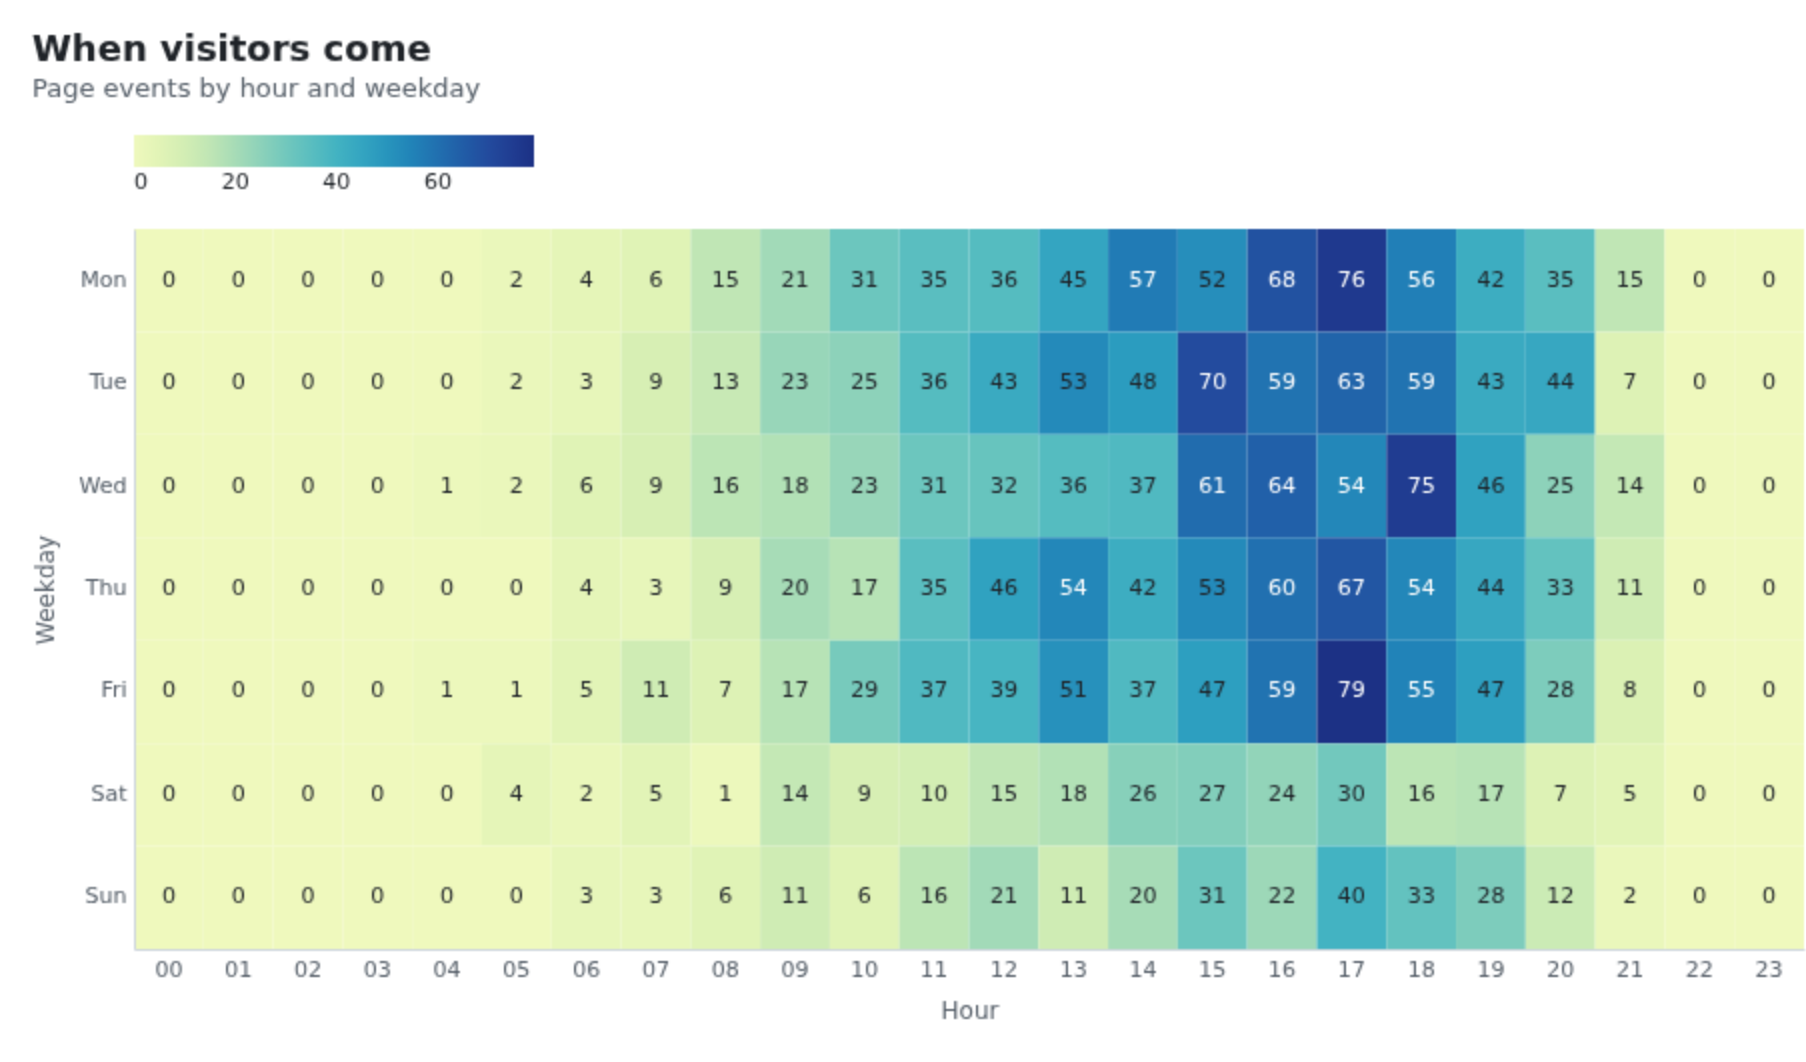
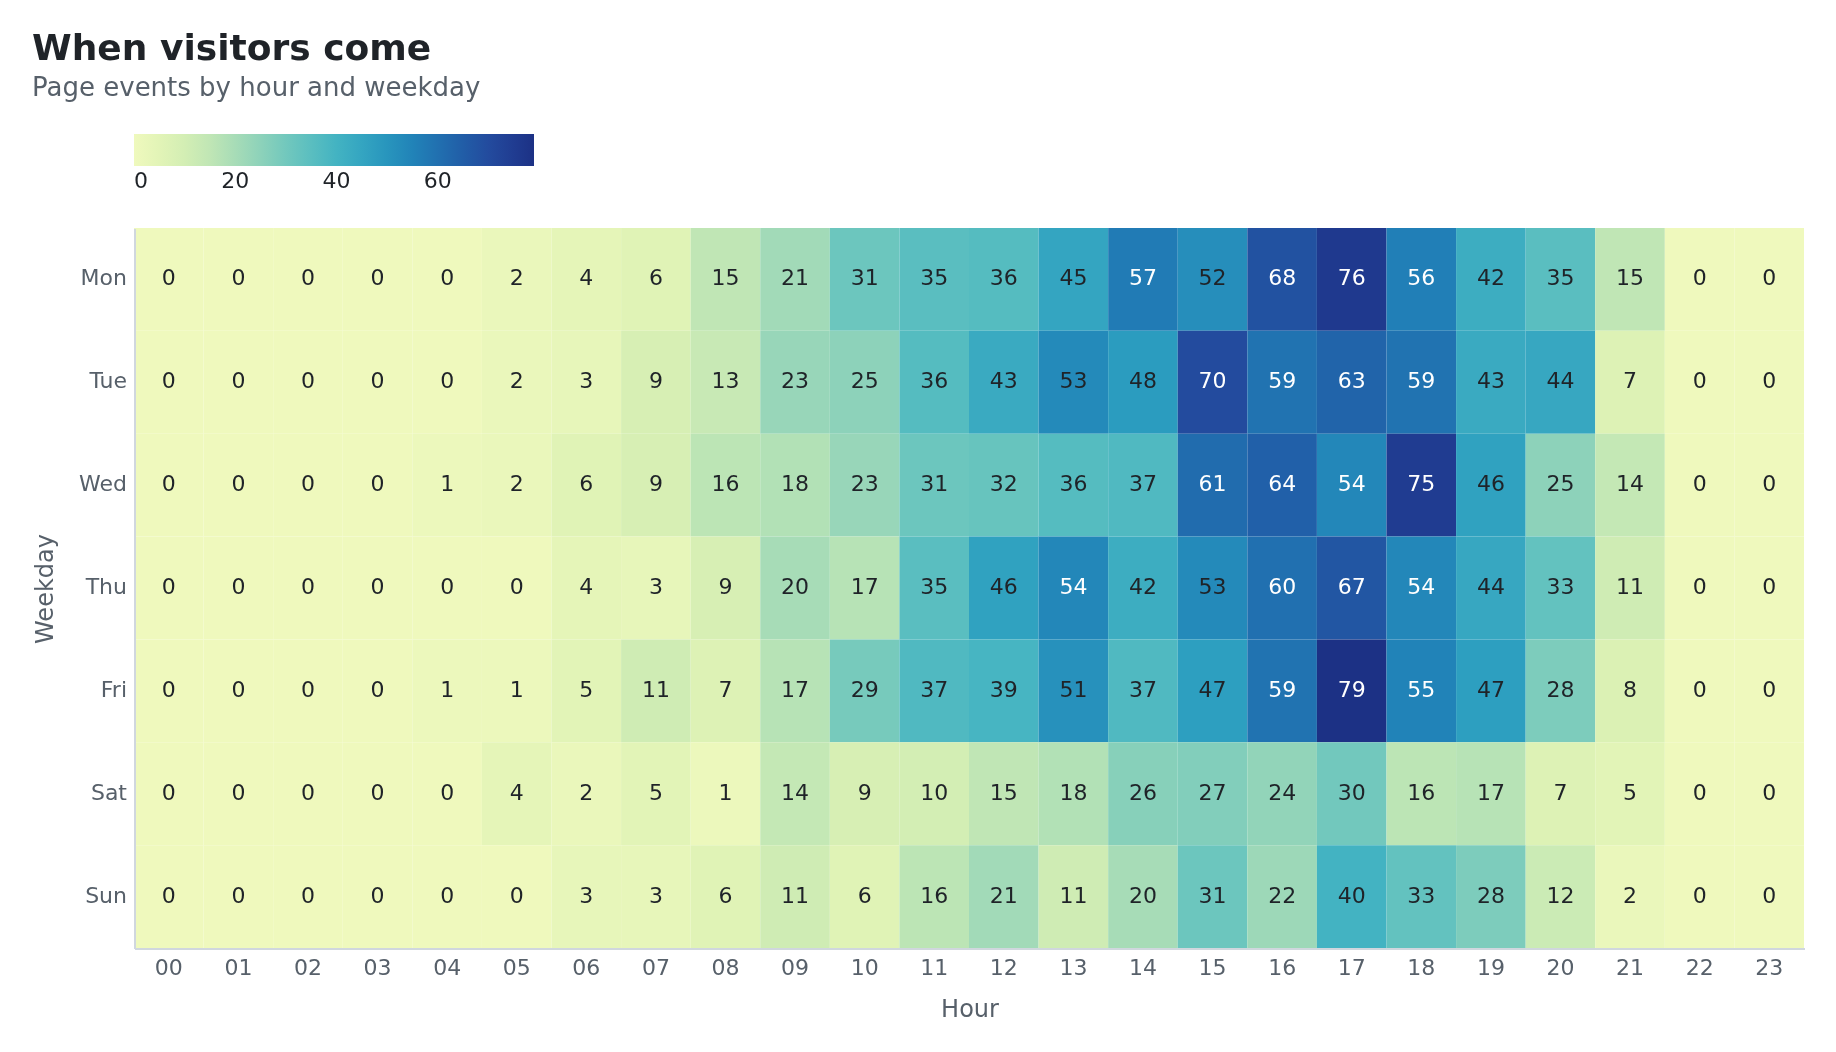
Page: re-export the chart images at full sharpness
The gallery and label images had been resampled after export, so their text looked soft.
All eight are now straight 2x exports from dchart's Download PNG (same charts, same data),
matching the area chart.

diff --git a/index.html b/index.html
@@ -147,23 +147,23 @@
         <button role="tab" id="tab-g6" aria-controls="pane-g6" aria-selected="false" tabindex="-1">Area</button>
       </div>
       <div role="tabpanel" id="pane-g1" aria-labelledby="tab-g1">
-        <img src="media/c-waterfall.png" alt="Waterfall chart from revenue of 1,200 down to net income of 360, with grey totals, red decreases and a green increase" width="1806" height="1026" loading="lazy">
+        <img src="media/c-waterfall.png" alt="Waterfall chart from revenue of 1,200 down to net income of 360, with grey totals, red decreases and a green increase" width="1836" height="1016" loading="lazy">
         <p>A profit-and-loss bridge. Totals come from an <code>is_total</code> column, or from the first and last rows. Dotted connectors carry the running total from bar to bar.</p>
       </div>
       <div role="tabpanel" id="pane-g2" aria-labelledby="tab-g2" hidden>
-        <img src="media/c-trend.png" alt="Three monthly lines of average order value, one per sales channel, each with a shaded 95% confidence band" width="1806" height="1040" loading="lazy">
+        <img src="media/c-trend.png" alt="Three monthly lines of average order value, one per sales channel, each with a shaded 95% confidence band" width="1836" height="1030" loading="lazy">
         <p>Average order value per channel with its 95% interval. Bounds can come from two columns, or dchart computes them from the raw rows: CI of the mean, standard error, standard deviation or IQR.</p>
       </div>
       <div role="tabpanel" id="pane-g3" aria-labelledby="tab-g3" hidden>
-        <img src="media/c-heatmap.png" alt="Heatmap of page events by hour of day and weekday, busiest on weekday afternoons, with the count printed in each cell" width="1806" height="1062" loading="lazy">
+        <img src="media/c-heatmap.png" alt="Heatmap of page events by hour of day and weekday, busiest on weekday afternoons, with the count printed in each cell" width="1836" height="1052" loading="lazy">
         <p>Page events by hour and weekday. Each cell's count is printed in white or dark ink, whichever reads better on that cell's colour.</p>
       </div>
       <div role="tabpanel" id="pane-g4" aria-labelledby="tab-g4" hidden>
-        <img src="media/c-combo.png" alt="Monthly revenue as bars on the left axis with margin as a line on a second axis on the right" width="1836" height="980" loading="lazy">
+        <img src="media/c-combo.png" alt="Monthly revenue as bars on the left axis with margin as a line on a second axis on the right" width="1836" height="970" loading="lazy">
         <p>Revenue as bars and margin as a line, each on its own axis. Name the columns <code>bar</code> and <code>line</code> and it's picked automatically.</p>
       </div>
       <div role="tabpanel" id="pane-g5" aria-labelledby="tab-g5" hidden>
-        <img src="media/c-bullet.png" alt="Bullet chart of five KPIs, each a bar for the actual value with a tick for the goal over grey bands" width="1836" height="968" loading="lazy">
+        <img src="media/c-bullet.png" alt="Bullet chart of five KPIs, each a bar for the actual value with a tick for the goal over grey bands" width="1836" height="958" loading="lazy">
         <p>KPIs against their goals: the bar is the actual value, the tick the target, and the grey bands are the ranges you set.</p>
       </div>
       <div role="tabpanel" id="pane-g6" aria-labelledby="tab-g6" hidden>
@@ -180,15 +180,15 @@
       <p class="section-lede">A value label is only useful if it's legible. dchart measures each bar and segment as the chart draws: a label goes inside when it fits, in white or dark ink by contrast with the colour behind it, and moves outside when it doesn't. That keeps working when you change the colour scheme.</p>
       <div class="label-grid">
         <figure>
-          <img src="media/c-negative.png" alt="Bar chart of eight regions against plan, with negative bars labelled inside their ends in white" width="1836" height="980" loading="lazy">
+          <img src="media/c-negative.png" alt="Bar chart of eight regions against plan, with negative bars labelled inside their ends in white" width="1836" height="970" loading="lazy">
           <figcaption><b>Negative bars</b> keep their labels inside the bar's end, clear of the category axis. A bar too short for its label puts it just past the end.</figcaption>
         </figure>
         <figure>
-          <img src="media/c-stacked.png" alt="Stacked bars with white labels on the blue segments and dark labels on the orange and red segments" width="1806" height="1026" loading="lazy">
+          <img src="media/c-stacked.png" alt="Stacked bars with white labels on the blue segments and dark labels on the orange and red segments" width="1836" height="1016" loading="lazy">
           <figcaption><b>Stacked segments</b> get their labels in the middle, and only where there's room for them.</figcaption>
         </figure>
         <figure>
-          <img src="media/c-waterfall-dark.png" alt="The waterfall chart on a dark theme, with labels still legible on every bar" width="1806" height="1056" loading="lazy">
+          <img src="media/c-waterfall-dark.png" alt="The waterfall chart on a dark theme, with labels still legible on every bar" width="1836" height="1046" loading="lazy">
           <figcaption><b>Any theme.</b> The same waterfall on the dark theme. Labels outside the bars switch to a light ink.</figcaption>
         </figure>
         <div>
